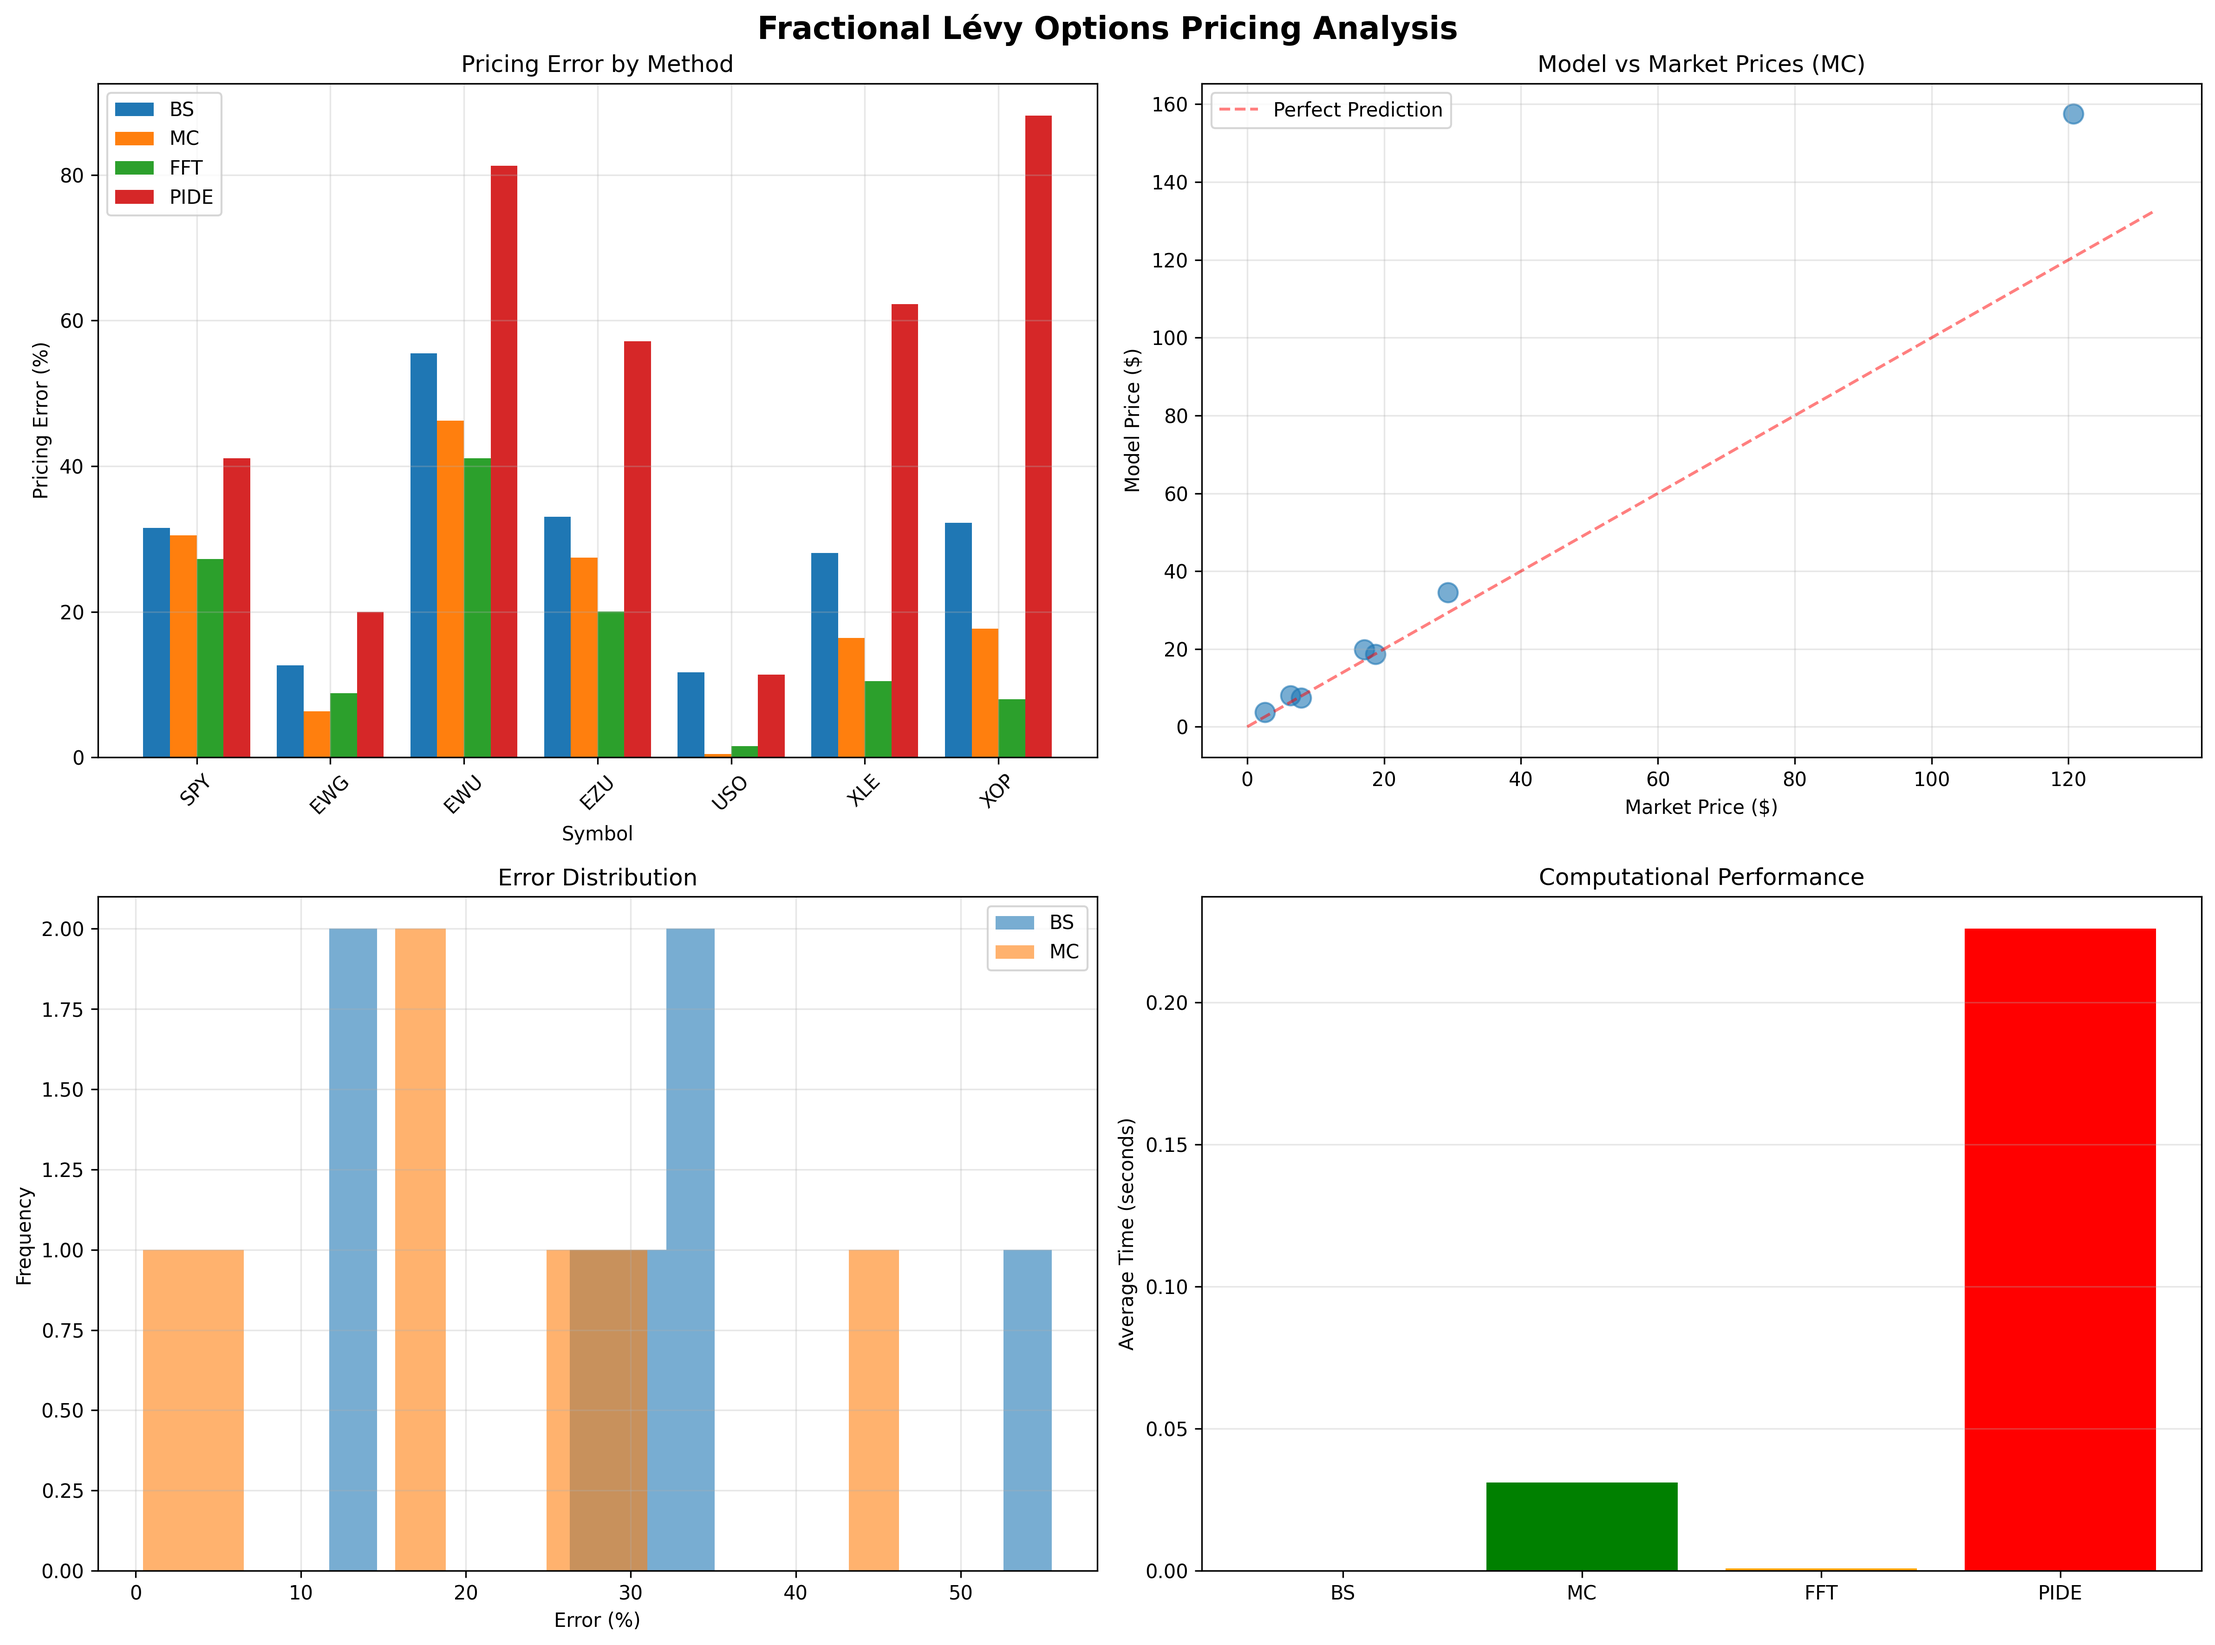
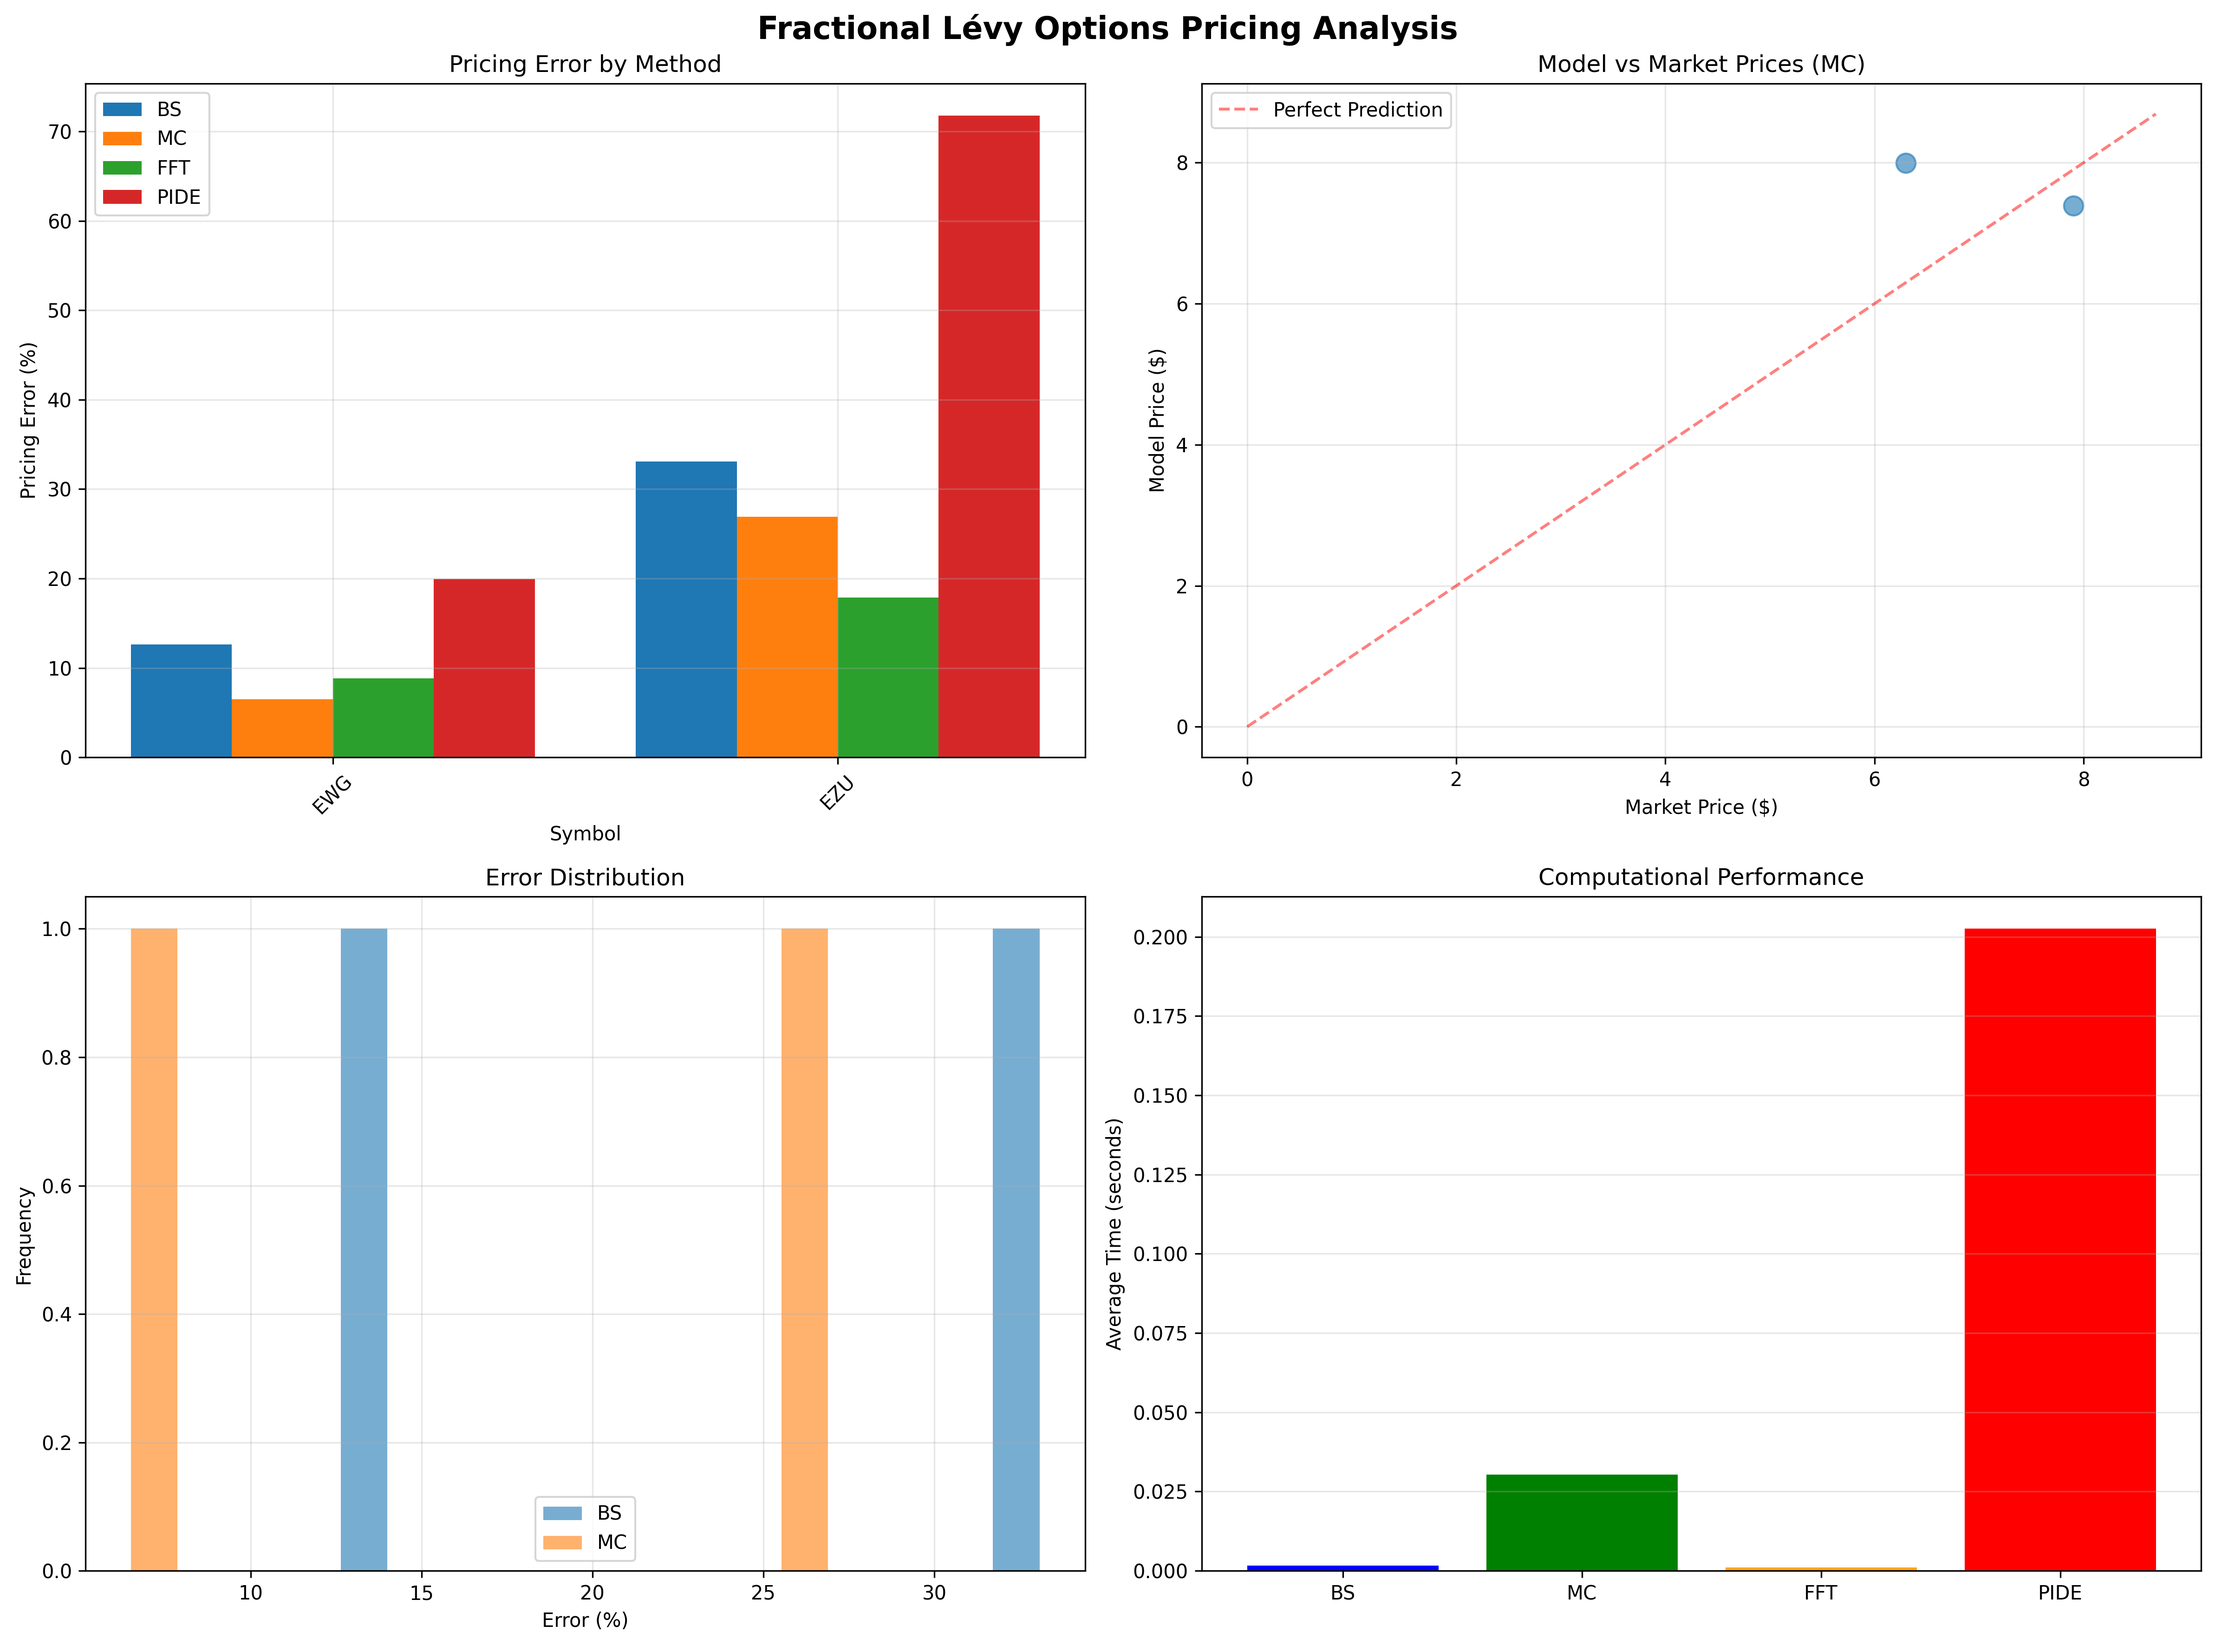
enhance portfolio diversification and fix data serialization
- Expand portfolio to include 5 asset classes with 31 symbols:
  * indices: SPY, QQQ, IWM, DIA, VTI
  * stocks: AAPL, MSFT, GOOGL, AMZN, TSLA, META, NVDA, JPM, JNJ, V
  * commodities: GC=F, SI=F, CL=F, NG=F, ZC=F, ZS=F
  * etfs: GLD, SLV, USO, TLT, HYG, LQD
  * forex: EURUSD=X, GBPUSD=X, USDJPY=X, AUDUSD=X

- Implement dynamic symbol validation with automatic filtering
- Fix JSON serialization error by converting numpy types to native Python
- Enhance error handling in options data fetching
- Maintain backward compatibility with existing analysis modules
- Improve data reliability with conservative filtering criteria

diff --git a/options_data_fetcher.py b/options_data_fetcher.py
@@ -1,32 +1,31 @@
 # options_data_fetcher.py
-# Production data acquisition with relaxed but sensible filters
-
 import yfinance as yf
 import pandas as pd
 import numpy as np
 from datetime import datetime
 
-# Relaxed filters for real market conditions
+# Conservative filters for reliable data
 FILTERS = {
     'min_days_to_expiry': 7,
-    'max_days_to_expiry': 180,
-    'min_volume': 5,              # Reduced from 10
-    'max_bid_ask_spread_pct': 50, # Increased from 10
-    'min_implied_vol': 0.01,      # Reduced from 0.05
-    'max_implied_vol': 5.0,       # Increased from 2.0
-    'moneyness_range': (0.7, 1.3), # Wider range
-    'min_price': 0.01             # Reduced minimum
+    'max_days_to_expiration': 180,
+    'min_volume': 10,
+    'max_bid_ask_spread_pct': 20,
+    'min_implied_vol': 0.05,
+    'max_implied_vol': 2.0,
+    'moneyness_range': (0.8, 1.2),
+    'min_price': 0.10
 }
 
 def get_option_data(symbol):
     """
-    Get best available option data with realistic filters
+    Get option data with robust error handling
+    Returns format compatible with existing main.py structure
     """
     try:
         ticker = yf.Ticker(symbol)
         hist = ticker.history(period="5d")
         
-        if hist.empty:
+        if hist.empty or len(hist) < 3:
             return None
         
         S0 = float(hist['Close'].iloc[-1])
@@ -35,8 +34,7 @@ def get_option_data(symbol):
         if not expirations:
             return None
         
-        # Try each expiration
-        for exp_date in expirations[:15]:
+        for exp_date in expirations[:8]:
             try:
                 chain = ticker.option_chain(exp_date)
                 calls = chain.calls
@@ -44,11 +42,10 @@ def get_option_data(symbol):
                 if calls.empty:
                     continue
                 
-                # Calculate metrics
+                # Basic filtering
                 calls = calls.copy()
                 calls['moneyness'] = calls['strike'] / S0
                 
-                # Apply filters
                 filtered = calls[
                     (calls['volume'] >= FILTERS['min_volume']) &
                     (calls['lastPrice'] >= FILTERS['min_price']) &
@@ -56,17 +53,19 @@ def get_option_data(symbol):
                     (calls['impliedVolatility'] <= FILTERS['max_implied_vol']) &
                     (calls['moneyness'] >= FILTERS['moneyness_range'][0]) &
                     (calls['moneyness'] <= FILTERS['moneyness_range'][1])
-                ]
+                ].copy()
                 
                 if filtered.empty:
                     continue
                 
-                # Calculate spread where possible
+                # Calculate bid-ask spread
                 filtered['spread_pct'] = 999.0
                 mask = (filtered['bid'] > 0) & (filtered['ask'] > filtered['bid'])
-                filtered.loc[mask, 'spread_pct'] = (filtered.loc[mask, 'ask'] - filtered.loc[mask, 'bid']) / filtered.loc[mask, 'lastPrice'] * 100
+                filtered.loc[mask, 'spread_pct'] = (
+                    (filtered.loc[mask, 'ask'] - filtered.loc[mask, 'bid']) / 
+                    filtered.loc[mask, 'lastPrice'] * 100
+                )
                 
-                # Filter by spread
                 filtered = filtered[filtered['spread_pct'] <= FILTERS['max_bid_ask_spread_pct']]
                 
                 if filtered.empty:
@@ -76,15 +75,17 @@ def get_option_data(symbol):
                 exp_dt = pd.to_datetime(exp_date)
                 days_to_exp = (exp_dt - pd.Timestamp.now()).days
                 
-                if days_to_exp < FILTERS['min_days_to_expiry'] or days_to_exp > FILTERS['max_days_to_expiry']:
+                if days_to_exp < FILTERS['min_days_to_expiry'] or days_to_exp > FILTERS['max_days_to_expiration']:
                     continue
                 
-                # Select ATM
-                atm = filtered.iloc[(filtered['moneyness'] - 1.0).abs().argsort()[:1]]
+                # Select ATM option
+                filtered['atm_distance'] = abs(filtered['moneyness'] - 1.0)
+                atm = filtered.nsmallest(1, 'atm_distance')
                 
                 if atm.empty:
                     continue
                 
+                # Return format compatible with main.py expectations
                 return {
                     'symbol': symbol,
                     'stock_price': S0,
@@ -100,7 +101,7 @@ def get_option_data(symbol):
                     'expiration': exp_date
                 }
                 
-            except:
+            except Exception:
                 continue
         
         return None
@@ -108,3 +109,30 @@ def get_option_data(symbol):
     except Exception as e:
         print(f"Error fetching {symbol}: {str(e)}")
         return None
+
+def get_real_options_data(symbol):
+    """Alias for compatibility with multi_symbol_analysis.py"""
+    return get_option_data(symbol)
+
+def get_historical_volatility(symbol, period_days=252):
+    """
+    Calculate historical volatility for a symbol
+    Compatible with multi_symbol_analysis.py requirements
+    """
+    try:
+        ticker = yf.Ticker(symbol)
+        hist = ticker.history(period=f"{period_days+50}d")  # Extra days for returns calc
+        
+        if len(hist) < 20:
+            return 0.2, np.array([])  # Default fallback
+        
+        returns = np.log(hist['Close'] / hist['Close'].shift(1)).dropna()
+        
+        if len(returns) < 10:
+            return 0.2, np.array([])
+        
+        hist_vol = returns.std() * np.sqrt(252)
+        return float(hist_vol), returns.values
+        
+    except Exception:
+        return 0.2, np.array([])  # Default fallback

diff --git a/main.py b/main.py
@@ -8,6 +8,8 @@ from datetime import datetime
 import logging
 import time
 import json
+from options_data_fetcher import get_option_data, get_historical_volatility
+from portfolio_constructor import PORTFOLIO
 
 # Setup professional logging
 logging.basicConfig(
@@ -24,13 +26,6 @@ from pide_solver import fractional_pide_solver
 from config import update_config_with_option_data, r
 from levy_simulation import validate_vg_parameters
 
-# Portfolio of 15 high-liquidity symbols across markets
-PORTFOLIO = {
-    'US_Mega_Cap': ['SPY', 'QQQ', 'AAPL', 'MSFT', 'GOOGL'],
-    'US_High_Vol': ['TSLA', 'NVDA', 'AMD'],
-    'European': ['EWG', 'EWU', 'EZU'],
-    'Energy': ['USO', 'XLE', 'XOP', 'OXY']
-}
 
 class AnalysisEngine:
     
@@ -364,6 +359,17 @@ class AnalysisEngine:
         if not self.results:
             return
         
+        # Helper function to convert numpy types to Python native types
+        def convert_value(v):
+            if isinstance(v, (np.integer, np.floating)):
+                return float(v)
+            elif isinstance(v, np.bool_):
+                return bool(v)
+            elif isinstance(v, np.ndarray):
+                return v.tolist()
+            else:
+                return v
+        
         # DataFrame for CSV
         rows = []
         for result in self.results.values():
@@ -400,12 +406,10 @@ class AnalysisEngine:
             json_results[sym] = {
                 'symbol': result['symbol'],
                 'timestamp': result['timestamp'],
-                'option': {k: float(v) if isinstance(v, (np.integer, np.floating)) else v 
-                          for k, v in result['option'].items()},
+                'option': {k: convert_value(v) for k, v in result['option'].items()},
                 'vg_params': result['vg_params'],
                 'prices': {
-                    method: {k: float(v) if isinstance(v, (np.integer, np.floating)) else v 
-                            for k, v in data.items() if k != 'grid'}
+                    method: {k: convert_value(v) for k, v in data.items() if k != 'grid'}
                     for method, data in result['prices'].items() 
                     if data and isinstance(data, dict)
                 }

diff --git a/portfolio_constructor.py b/portfolio_constructor.py
@@ -1,0 +1,61 @@
+# portfolio_constructor.py
+import yfinance as yf
+import pandas as pd
+from typing import List, Dict, Optional
+import time
+
+class PortfolioConstructor:
+    def __init__(self):
+        self.categories = {
+            'indices': ['SPY', 'QQQ', 'IWM', 'DIA', 'VTI'],
+            'stocks': ['AAPL', 'MSFT', 'GOOGL', 'AMZN', 'TSLA', 'META', 'NVDA', 'JPM', 'JNJ', 'V'],
+            'commodities': ['GC=F', 'SI=F', 'CL=F', 'NG=F', 'ZC=F', 'ZS=F'],
+            'etfs': ['GLD', 'SLV', 'USO', 'TLT', 'HYG', 'LQD'],
+            'forex': ['EURUSD=X', 'GBPUSD=X', 'USDJPY=X', 'AUDUSD=X']
+        }
+    
+    def validate_symbol(self, symbol: str) -> bool:
+        """Validate if symbol has tradable options"""
+        try:
+            ticker = yf.Ticker(symbol)
+            hist = ticker.history(period="1mo")
+            
+            if hist.empty or len(hist) < 10:
+                return False
+            
+            # Check options availability
+            expirations = ticker.options
+            if not expirations:
+                return False
+            
+            # Basic liquidity check
+            current_price = hist['Close'].iloc[-1]
+            volume_avg = hist['Volume'].mean()
+            
+            return current_price > 0 and volume_avg > 10000
+            
+        except Exception:
+            return False
+    
+    def build_portfolio(self) -> Dict:
+        """Build portfolio with validated symbols"""
+        portfolio = {}
+        
+        for category, symbols in self.categories.items():
+            validated_symbols = []
+            
+            for symbol in symbols:
+                if self.validate_symbol(symbol):
+                    validated_symbols.append(symbol)
+                    time.sleep(0.2)  # Rate limiting
+                else:
+                    print(f"⚠  {symbol} failed validation")
+            
+            portfolio[category] = validated_symbols
+            print(f"✅ {category}: {validated_symbols}")
+        
+        return portfolio
+
+# Global portfolio instance
+portfolio_builder = PortfolioConstructor()
+PORTFOLIO = portfolio_builder.build_portfolio()
